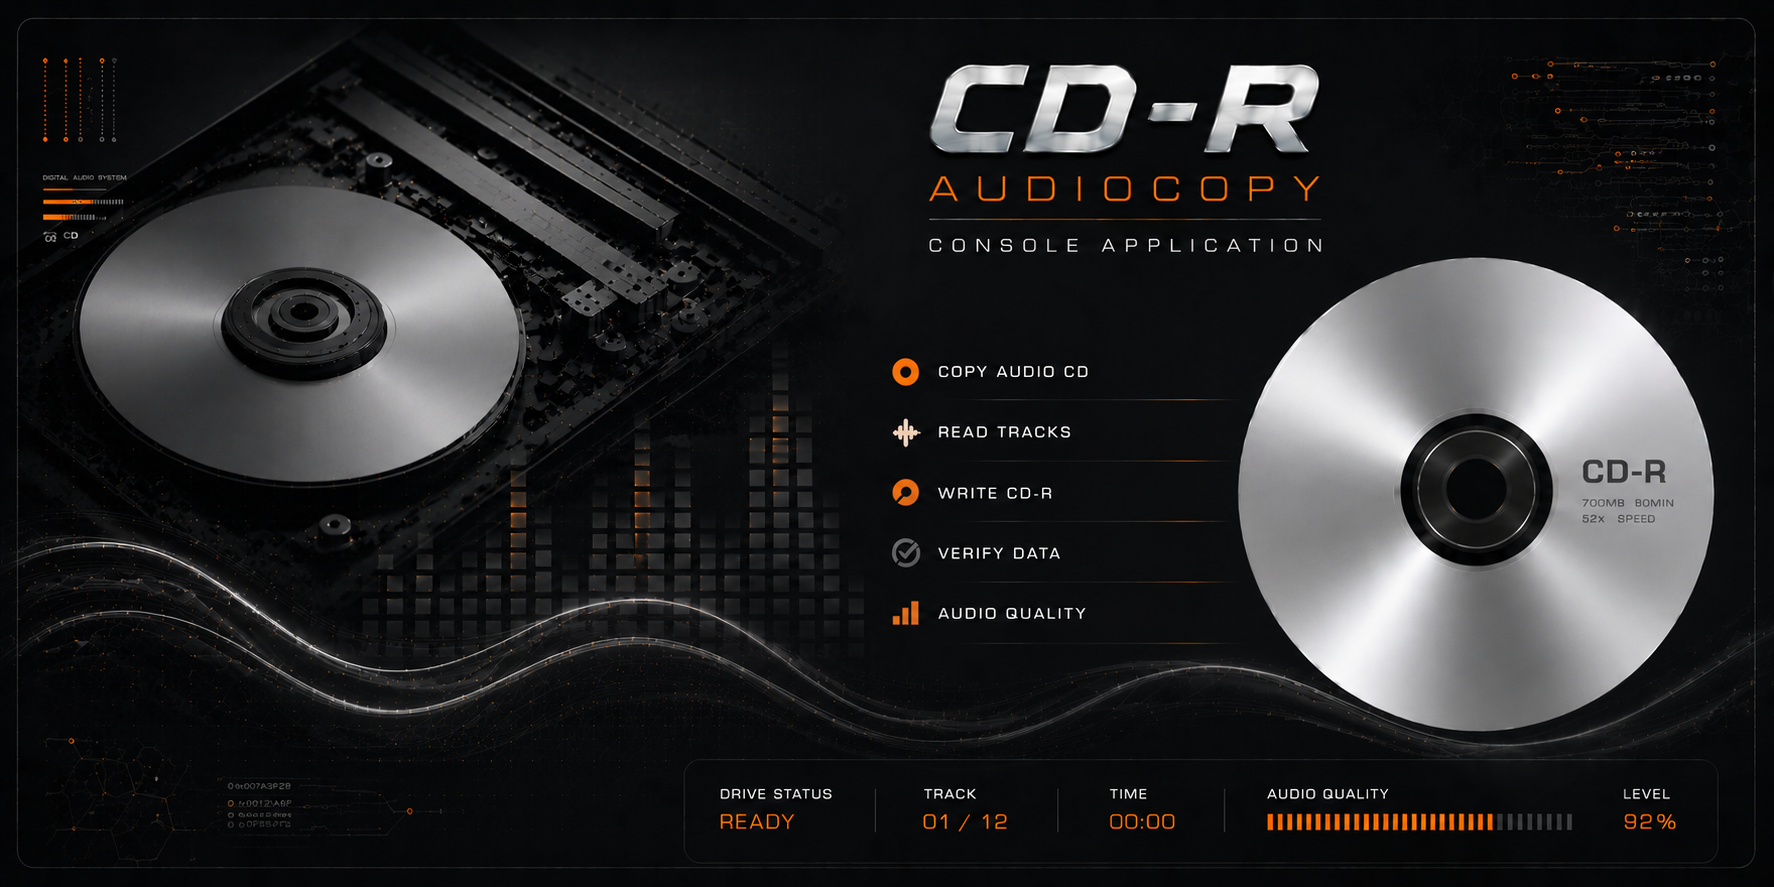
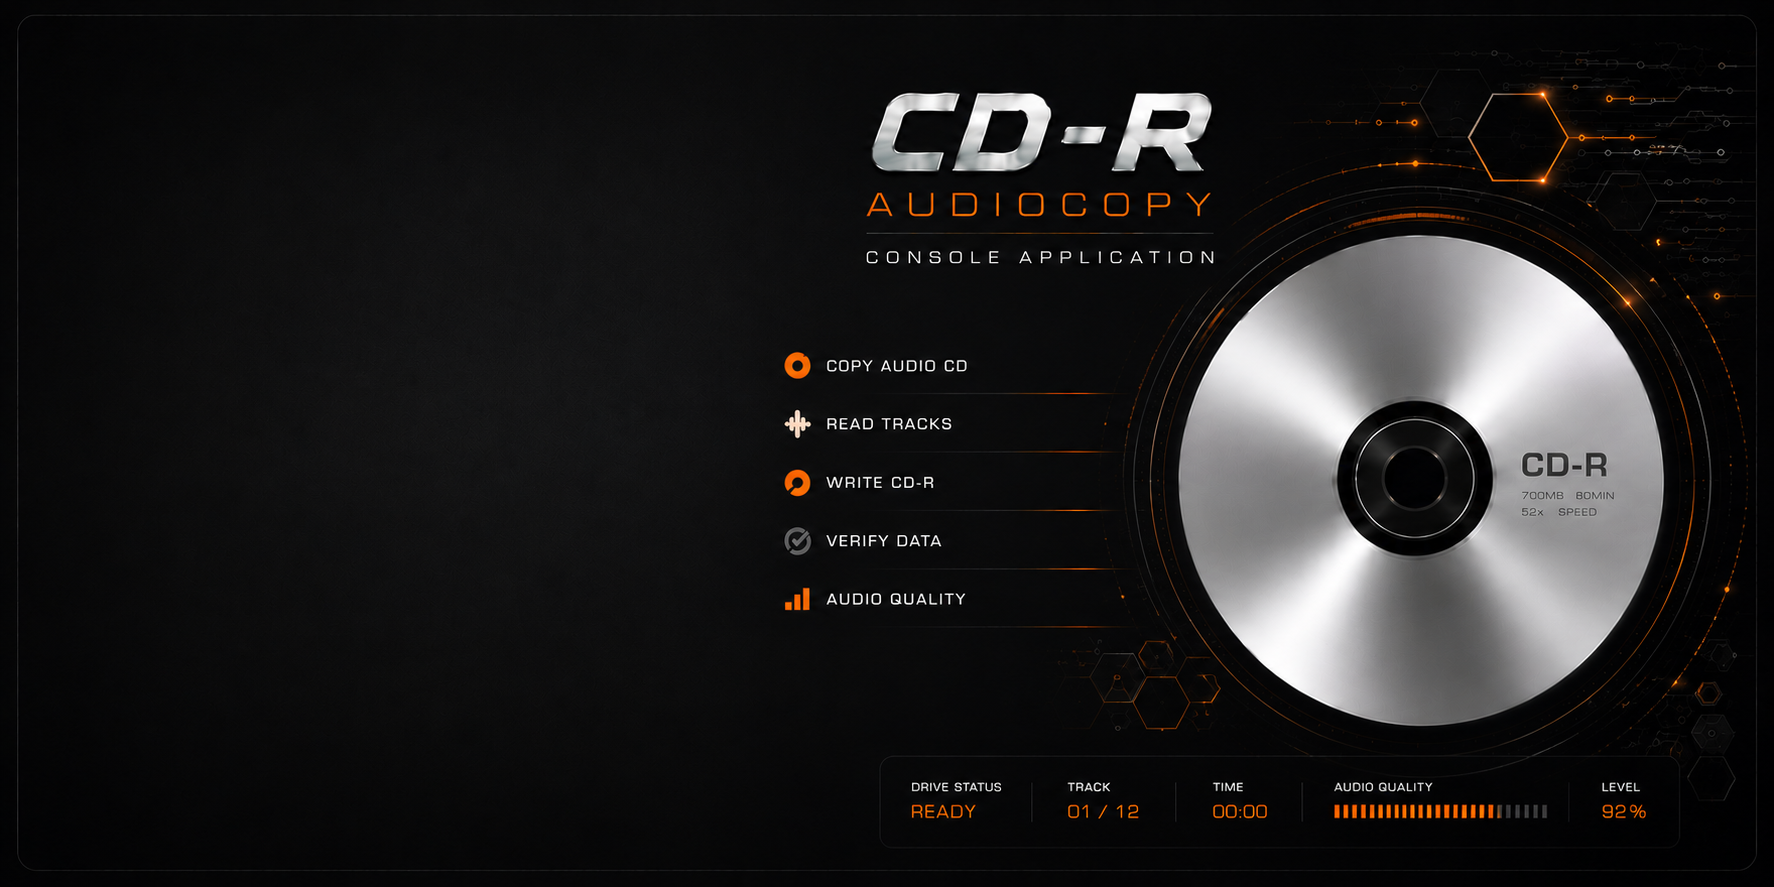
Update background

diff --git a/ConsoleColor.h b/ConsoleColor.h
@@ -39,33 +39,63 @@ namespace Console {
 		// background
 		constexpr int BgR = 10, BgG = 10, BgB = 11;
 
-		// standard text
+		// primary foreground text
 		constexpr int FgR = 188, FgG = 184, FgB = 176;
 
-		// bright metallic text
+		// bright metallic highlight
 		constexpr int WhiteR = 228, WhiteG = 224, WhiteB = 218;
 
-		// inactive / dim
+		// inactive / disabled text
 		constexpr int DimR = 92, DimG = 88, DimB = 84;
 
-		// menu / active UI highlight
+		// primary orange accent
 		constexpr int MenuR = 242;
 		constexpr int MenuG = 156;
 		constexpr int MenuB = 52;
 
-		// secondary amber
+		// deep amber accent
 		constexpr int YellowR = 218;
 		constexpr int YellowG = 118;
 		constexpr int YellowB = 32;
 
-		// steel-blue accent
+		// steel blue technical accent
 		constexpr int CyanR = 76, CyanG = 118, CyanB = 142;
 
-		// muted green
+		// muted olive success color
 		constexpr int GreenR = 134, GreenG = 148, GreenB = 116;
 
-		// copper-red
+		// copper red warning/error
 		constexpr int RedR = 152, RedG = 82, RedB = 60;
+
+		// panel border / separators
+		constexpr int BorderR = 38;
+		constexpr int BorderG = 40;
+		constexpr int BorderB = 44;
+
+		// soft glow highlight
+		constexpr int GlowR = 255;
+		constexpr int GlowG = 196;
+		constexpr int GlowB = 96;
+
+		// dark panel background
+		constexpr int PanelR = 18;
+		constexpr int PanelG = 18;
+		constexpr int PanelB = 20;
+
+		// metallic silver accent
+		constexpr int SilverR = 164;
+		constexpr int SilverG = 168;
+		constexpr int SilverB = 172;
+
+		// waveform / graph accent
+		constexpr int WaveR = 120;
+		constexpr int WaveG = 128;
+		constexpr int WaveB = 136;
+
+		// subtle orange line accent
+		constexpr int LineR = 196;
+		constexpr int LineG = 104;
+		constexpr int LineB = 28;
 
 	}
 